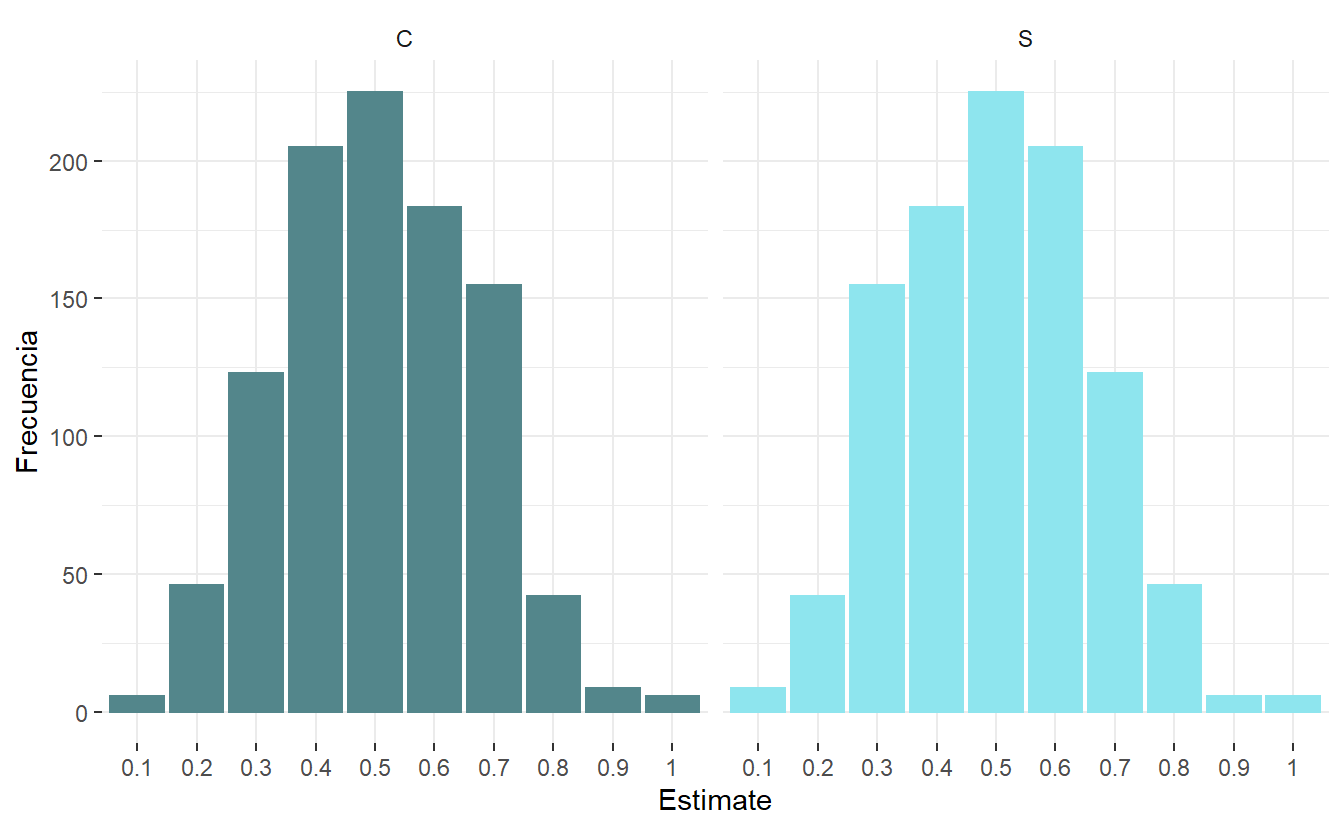
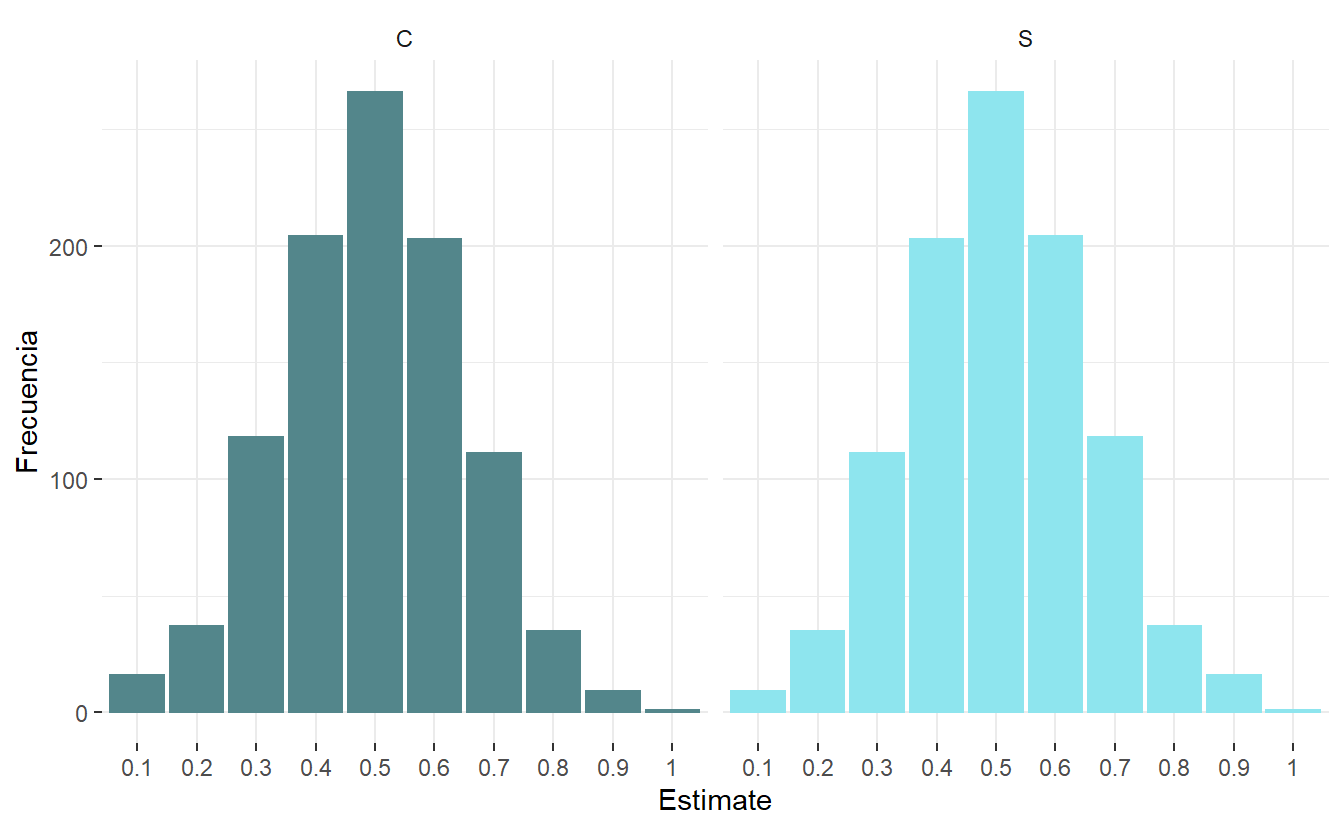
teoria prob

diff --git a/content/project/Teoria Probabilidad/index.md b/content/project/Teoria Probabilidad/index.md
@@ -41,7 +41,7 @@ url_video: ""
 #   E.g. `slides = "example-slides"` references `content/slides/example-slides.md`.
 #   Otherwise, set `slides = ""`.
 slides: ""
-rmd_hash: cf25e4f5377b2269
+rmd_hash: 064d8a7bc1cdb05f
 
 ---
 
@@ -106,8 +106,8 @@ Exactamente, es el escenario donde se da el 50/50, el mas probable (mayor frecue
 <span class='c'>#&gt; <span style='color: #555555;'># A tibble: 2 × 2</span></span>
 <span class='c'>#&gt;   Resultado  mean</span>
 <span class='c'>#&gt;   <span style='color: #555555; font-style: italic;'>&lt;chr&gt;</span>     <span style='color: #555555; font-style: italic;'>&lt;dbl&gt;</span></span>
-<span class='c'>#&gt; <span style='color: #555555;'>1</span> C         0.507</span>
-<span class='c'>#&gt; <span style='color: #555555;'>2</span> S         0.499</span></code></pre>
+<span class='c'>#&gt; <span style='color: #555555;'>1</span> C         0.496</span>
+<span class='c'>#&gt; <span style='color: #555555;'>2</span> S         0.505</span></code></pre>
 
 </div>
 
